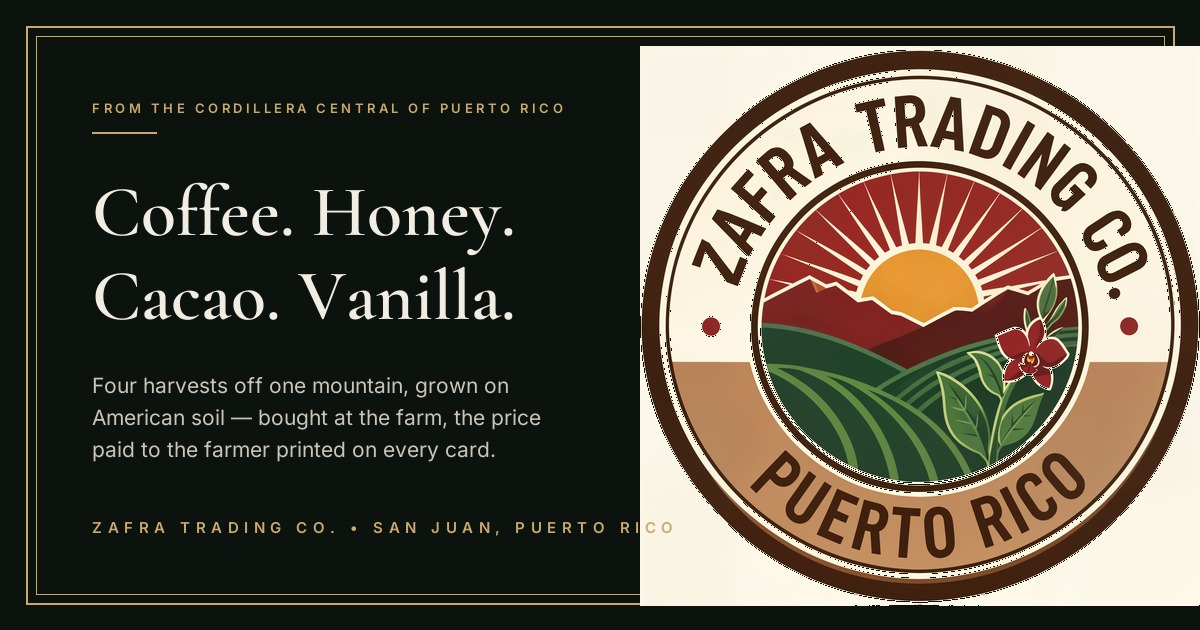
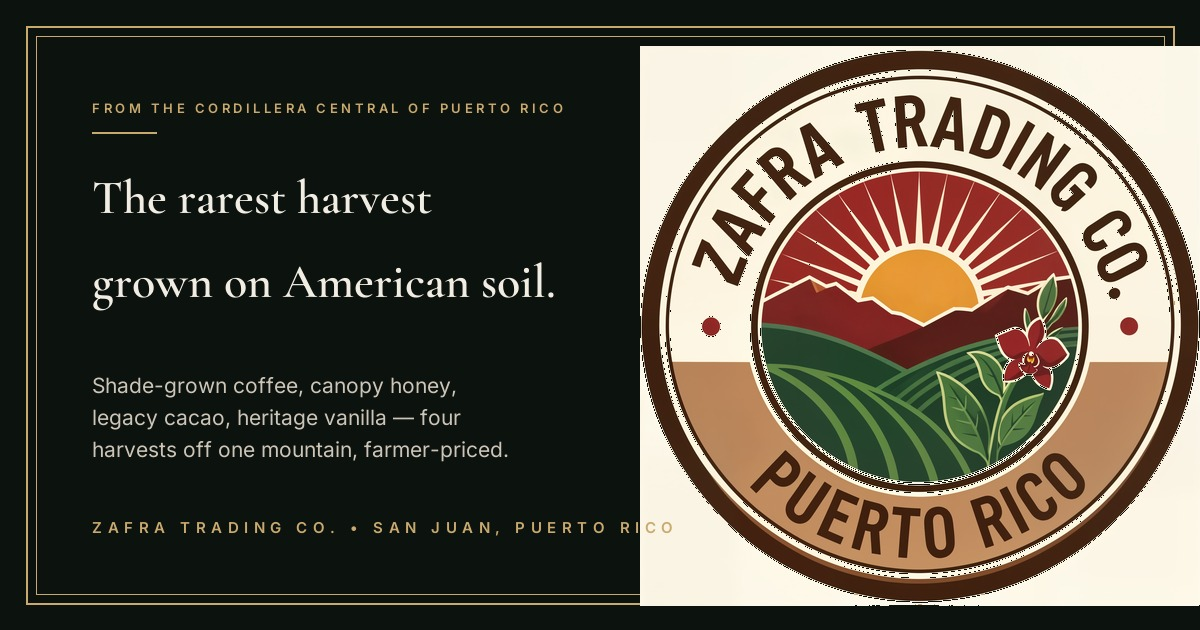
OG card v3: new hero headline on share card + width fixes

Changed region(s): [[0.0617, 0.2714, 0.4625, 0.5127], [0.0617, 0.6032, 0.4625, 0.7238]]

diff --git a/brand/gen_og.py b/brand/gen_og.py
@@ -50,20 +50,24 @@ tracked(d, (LX, 100), eb, sans_sb(13), GOLD, 3.5)
 d.rectangle([LX, 132, LX + 64, 133], fill=GOLD)
 
 # headline
-h1a, h1b = 'Coffee. Honey.', 'Cacao. Vanilla.'
-f_head = serif_sb(72)
-for line in (h1a, h1b):
-    assert d.textlength(line, font=f_head) <= 580, f'head too wide: {line}'
+h1a, h1b = 'The rarest harvest', 'grown on American soil.'
+f_head = None
+for size in (72, 66, 60, 54, 48):
+    cand = serif_sb(size)
+    if all(d.textlength(line, font=cand) <= 505 for line in (h1a, h1b)):
+        f_head = cand
+        break
+assert f_head is not None, 'headline does not fit at any size'
 d.text((LX, 168), h1a, font=f_head, fill=CREAM)
 d.text((LX, 252), h1b, font=f_head, fill=CREAM)
 
 # sub — four harvests + printed price
-s1 = 'Four harvests off one mountain, grown on'
-s2 = 'American soil \u2014 bought at the farm, the price'
-s3 = 'paid to the farmer printed on every card.'
+s1 = 'Shade-grown coffee, canopy honey,'
+s2 = 'legacy cacao, heritage vanilla \u2014 four'
+s3 = 'harvests off one mountain, farmer-priced.'
 f_sub = sans_r(21)
 for line in (s1, s2, s3):
-    assert d.textlength(line, font=f_sub) <= 580, f'sub too wide: {line}'
+    assert d.textlength(line, font=f_sub) <= 505, f'sub too wide: {line}'
 d.text((LX, 372), s1, font=f_sub, fill=MUTED)
 d.text((LX, 404), s2, font=f_sub, fill=MUTED)
 d.text((LX, 436), s3, font=f_sub, fill=MUTED)
